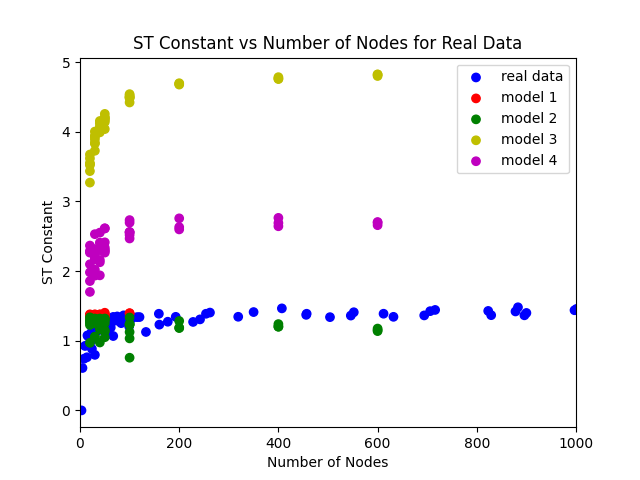
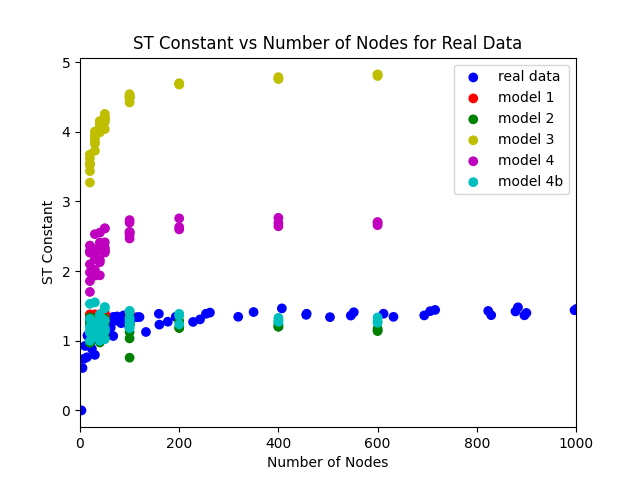
explore model 4 with a higher remove probability

diff --git a/spanning_trees.py b/spanning_trees.py
@@ -139,8 +139,8 @@ else:
 new_df = df[["num_vertices", "rand_seed"]].drop_duplicates()
 
 new_vert = [200, 400, 600] #, 800] # , 10000, 12000, 14000, 16000, 18000, 20000, 25000]
-for seed in df["rand_seed"].unique()[0:3]:
-    for vert in new_vert:
+for vert in new_vert:
+    for seed in df["rand_seed"].unique()[0:3]:
         new_row = pd.DataFrame([{'num_vertices': vert, 'rand_seed': seed}])
         new_df = pd.concat([new_df, new_row], ignore_index=True)
 
@@ -190,7 +190,7 @@ else:
 #  model 3  #
 #############
 
-file_paths = ['no'] #['pkls/num_nodes_m3.pkl', 'pkls/tree_const_m3.pkl', 'pkls/log_trees_m3.pkl']
+file_paths = ['pkls/num_nodes_m3.pkl', 'pkls/tree_const_m3.pkl', 'pkls/log_trees_m3.pkl']
 if check_file_paths(file_paths):
     with open('pkls/num_nodes_m3.pkl', 'rb') as f:
         num_nodes_m3 = pickle.load(f)
@@ -269,6 +269,51 @@ else:
     with open('pkls/log_trees_m4.pkl', 'wb') as f:
         pickle.dump(log_trees_m4, f)
 
+##############
+#  model 4b  #
+##############
+
+# Model 4 but choosing remove prob as 0.4 instead of default 0.2
+# Remove prob 0.5 made st constant a bit lower than real data
+# Remove prob 0.3 made st constant too high
+remove_prob = 0.4 # Seems best probability regarding spanning tree constant close to real data
+
+file_paths = ['pkls/num_nodes_m4b.pkl', 'pkls/tree_const_m4b.pkl', 'pkls/log_trees_m4b.pkl']
+if check_file_paths(file_paths):
+    with open('pkls/num_nodes_m4b.pkl', 'rb') as f:
+        num_nodes_m4b = pickle.load(f)
+    with open('pkls/tree_const_m4b.pkl', 'rb') as f:
+        tree_const_m4b = pickle.load(f)
+    with open('pkls/log_trees_m4b.pkl', 'rb') as f:
+        log_trees_m4b = pickle.load(f)
+else:
+    num_nodes_m4b = []
+    tree_const_m4b = []
+    log_trees_m4b = []
+
+    for index, row in new_df.iterrows():
+        nodes = int(row["num_vertices"])
+        rs = int(row["rand_seed"])
+        graph = models.model_three_with_removal(nodes, rs, remove_prob)
+
+        # calculate graph Laplacian
+        print('calculating model 4:', nodes, rs)
+        Lap = nx.laplacian_matrix(graph).toarray()
+        T = np.delete(Lap,1,0)
+        T = np.delete(T,1,1)
+        (sign, logabsdet) = slogdet(T)
+        if (sign == 1):
+            tree_const_m4b.append(np.exp(logabsdet/nodes))
+            num_nodes_m4b.append(nodes)
+            log_trees_m4b.append(logabsdet)
+    
+    # Save the lists as pickles so I do not have to run the code each time
+    with open('pkls/num_nodes_m4b.pkl', 'wb') as f:
+        pickle.dump(num_nodes_m4b, f)
+    with open('pkls/tree_const_m4b.pkl', 'wb') as f:
+        pickle.dump(tree_const_m4b, f)
+    with open('pkls/log_trees_m4b.pkl', 'wb') as f:
+        pickle.dump(log_trees_m4b, f)
 
 ###################################
 # plot st constant v num of nodes #
@@ -281,10 +326,11 @@ plt.scatter(num_nodes_m1, tree_const_m1, c=['r']*len(num_nodes_m1))
 plt.scatter(num_nodes_m2, tree_const_m2, c=['g']*len(num_nodes_m2))
 plt.scatter(num_nodes_m3, tree_const_m3, c=['y']*len(num_nodes_m3))
 plt.scatter(num_nodes_m4, tree_const_m4, c=['m']*len(num_nodes_m4))
+plt.scatter(num_nodes_m4b, tree_const_m4b, c=['c']*len(num_nodes_m4b))
 plt.title('ST Constant vs Number of Nodes for Real Data')
 plt.xlabel('Number of Nodes')
 plt.ylabel('ST Constant')
-plt.legend(['real data','model 1', 'model 2', 'model 3', 'model 4'])
+plt.legend(['real data','model 1', 'model 2', 'model 3', 'model 4', 'model 4b'])
 plt.savefig(f'imgs/st_cons/st_cons_real_data_vs_models.png')
 plt.show()
 
@@ -294,11 +340,12 @@ plt.scatter(num_nodes_m1, tree_const_m1, c=['r']*len(num_nodes_m1))
 plt.scatter(num_nodes_m2, tree_const_m2, c=['g']*len(num_nodes_m2))
 plt.scatter(num_nodes_m3, tree_const_m3, c=['y']*len(num_nodes_m3))
 plt.scatter(num_nodes_m4, tree_const_m4, c=['m']*len(num_nodes_m4))
+plt.scatter(num_nodes_m4b, tree_const_m4b, c=['c']*len(num_nodes_m4b))
 plt.title('ST Constant vs Number of Nodes for Real Data')
 plt.xlabel('Number of Nodes')
 plt.ylabel('ST Constant')
 plt.xlim(0, 1000)
-plt.legend(['real data','model 1', 'model 2', 'model 3', 'model 4'])
+plt.legend(['real data','model 1', 'model 2', 'model 3', 'model 4', 'model 4b'])
 plt.savefig(f'imgs/st_cons/st_cons_zoomed_in_real_data_vs_models_.png')
 plt.show()
 
